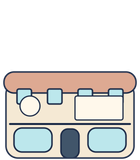
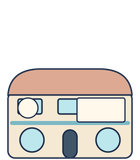
Differentiate curved diner preset across building levels

Changed region(s): [[0.0, 0.4062, 1.0, 1.0]]

diff --git a/docs/DECISIONS.md b/docs/DECISIONS.md
@@ -287,6 +287,8 @@ The [invite-beta release checklist](RELEASE_CHECKLIST.md) is the current cross-p
 
 - The one-command local city loop now builds and watches shared game code before starting the web/API processes, and starts the finalized event indexer against the same SQLite media volume. It reads the current city's creation height from the matching verified backfill record; another contract needs an explicit `INDEXER_START_HEIGHT`, and `DEV_INDEXER=0` allows offline art work. An initial watch compile used to restart both long-running services immediately; incremental TypeScript output now avoids that redundant startup write. In a fresh local run, the indexer advanced the shared cursor from 277177687 to 277180601, imported one additional event, and the seven-day report changed from stale to `completeThroughNow: true` while the API health route stayed 200. This is a local live-source loop, not a hosted throughput or production-monitor result.
 
+- The level-2 preset sheet exposed a repeated rounded-awning outline in the first Restaurant shape. Its four curated levels now use an arched diner roof, round street windows and a thin horizontal trim, while retaining the 140×160 anchor and logo/billboard placement envelopes. The generated sprite, palette mask, thumbnail, catalog hashes and both review sheets were regenerated; `assets:check` validated all 40 facades and the 170px neighbour sheet shows the changed silhouette at every level. Existing approved custom manifests remain immutable; this changes only future preset and mock-design renders. A physical-phone readability check remains open.
+
 - Browser wallet sign-in, redirects, session-key setup/recovery/revocation and local key storage security on both named wallets; the patched dependency compatibility and wallet bundle size. Protocol permission, allowance exhaustion and revocation passed separately on testnet.
 - Provider retention, authentication and sustained throughput under player traffic. The current quiet contract passed one full sparse catch-up, cursor restart and aggregate replay; a longer history with many paginated transactions remains unmeasured.
 - Actual provider cost, transparent edit quality, silhouette fit and human moderation load.

diff --git a/docs/ART_SPEC.md b/docs/ART_SPEC.md
@@ -4,7 +4,7 @@ The street has a 300 logical-pixel reference height. Plots have a 170px pitch; f
 
 Each facade source is a transparent 560×640 PNG (4× logical 140×160). Visible pixels must fit height limits 70/100/130/160px at levels 1–4. All projections must stay inside the 140px width. `packages/shared` validates metadata envelopes; decoded pixel verification is still required in the media pipeline.
 
-Types and paired silhouettes: Retail asymmetric store/sawtooth hall; Cafe glasshouse/timber pergola; Restaurant retro diner/courtyard bistro; Office glass block/cantilevered studio; Homes stepped terrace/narrow townhouse. Four palette accents: coral, sky blue, mint, yellow. Six car bodies in four colours fit 64×32 logical pixels. Logo, billboard and text render separately from facade art.
+Types and paired silhouettes: Retail asymmetric store/sawtooth hall; Cafe glasshouse/timber pergola; Restaurant curved-roof diner with round street windows/courtyard bistro; Office glass block/cantilevered studio; Homes stepped terrace/narrow townhouse. Four palette accents: coral, sky blue, mint, yellow. Six car bodies in four colours fit 64×32 logical pixels. Logo, billboard and text render separately from facade art.
 
 Reference sheets: [distinct player buildings](images/near-estate-player-buildings-distinct-v2.png) and [car bodies](images/near-estate-cars-v1.png). These are concept sheets, not validated transparent sprite assets.
 
